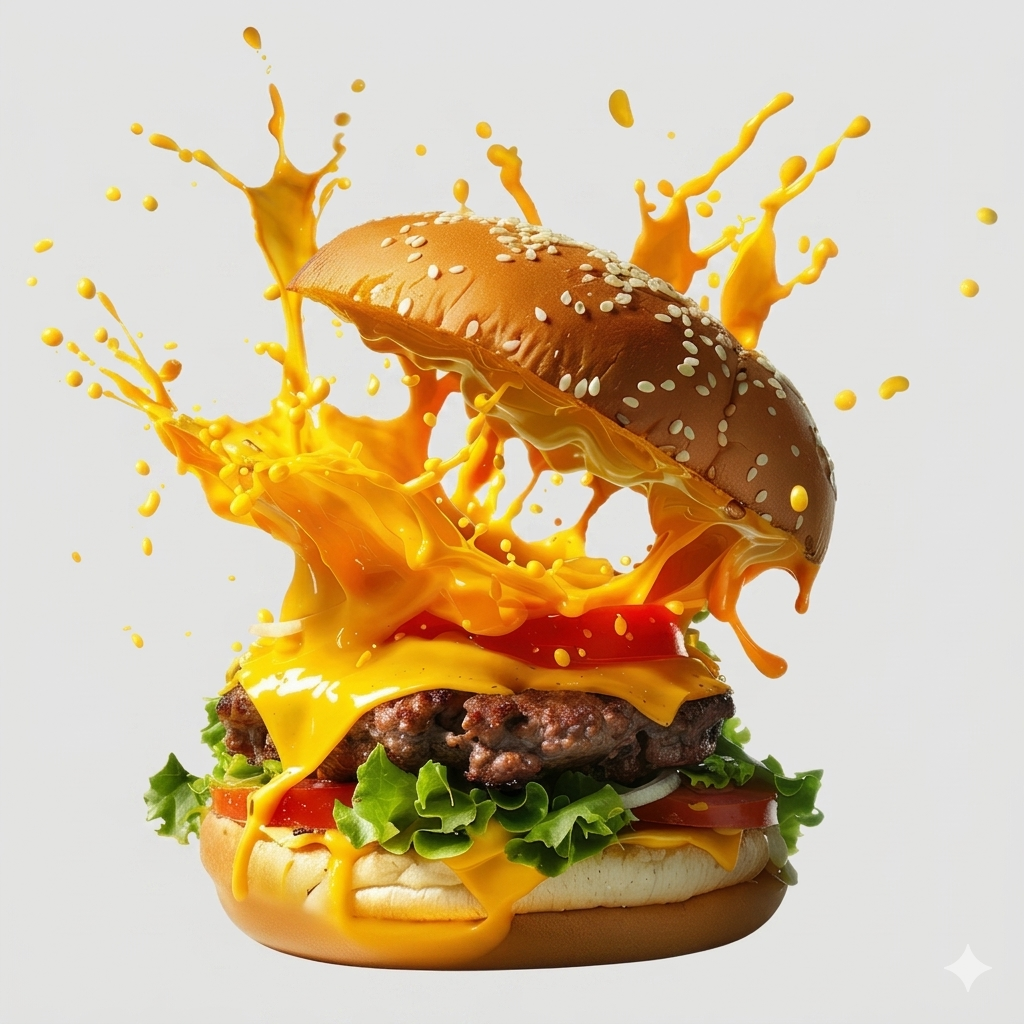
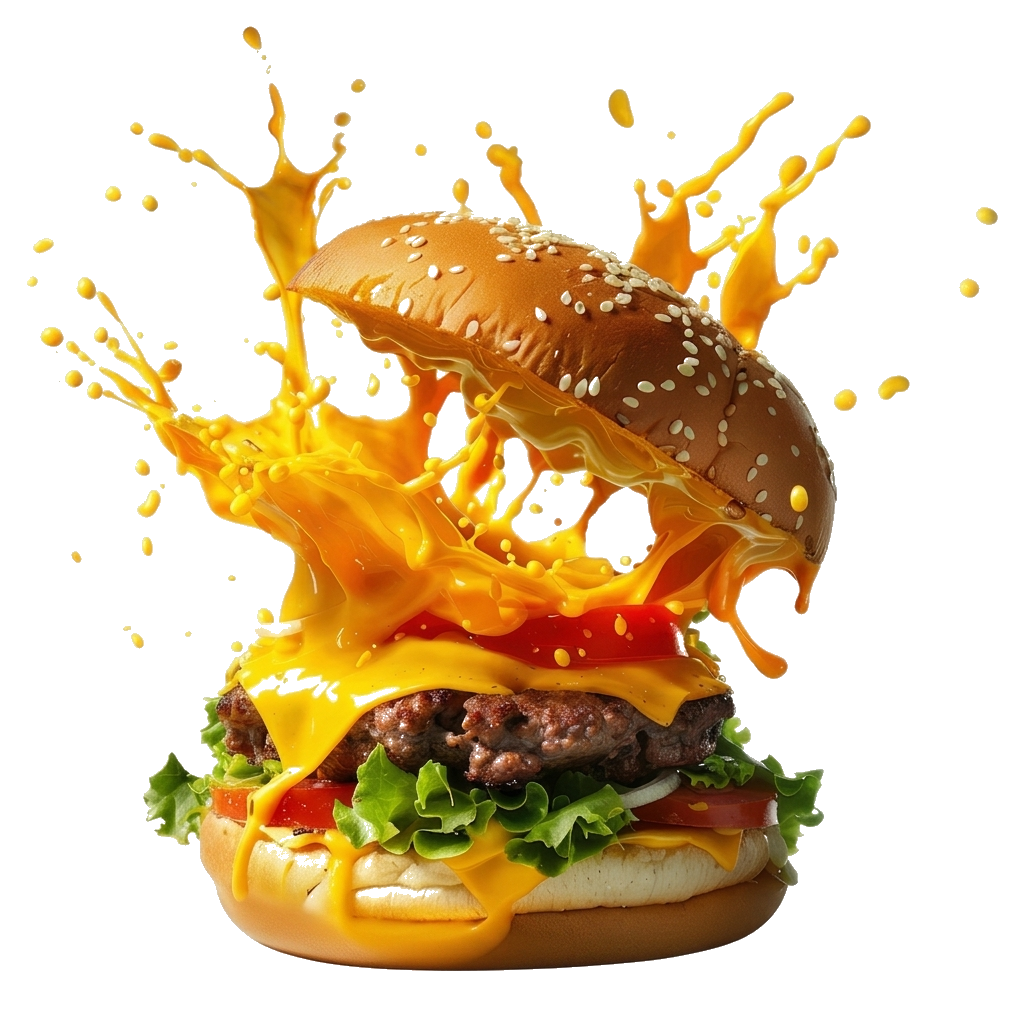
burger animate

diff --git a/lib/features/home/widgets/banner_widget.dart b/lib/features/home/widgets/banner_widget.dart
@@ -1,12 +1,39 @@
-import 'dart:math' as math;
 import 'package:flutter/material.dart';
 import '../../../core/constants/app_colors.dart';
 import '../../../core/widgets/brand_motion.dart';
 
 /// Restaurant banner widget shown at the top of the Home screen.
-/// Displays a full-width background image with slow rotation animation.
-class BannerWidget extends StatelessWidget {
+/// Shows the burger image (with transparent background) gently floating.
+class BannerWidget extends StatefulWidget {
   const BannerWidget({super.key});
+
+  @override
+  State<BannerWidget> createState() => _BannerWidgetState();
+}
+
+class _BannerWidgetState extends State<BannerWidget>
+    with SingleTickerProviderStateMixin {
+  late AnimationController _controller;
+  late Animation<double> _floatAnimation;
+
+  @override
+  void initState() {
+    super.initState();
+    _controller = AnimationController(
+      vsync: this,
+      duration: const Duration(seconds: 3),
+    );
+    _floatAnimation = Tween<double>(begin: 0, end: -10).animate(
+      CurvedAnimation(parent: _controller, curve: Curves.easeInOut),
+    );
+    _controller.repeat(reverse: true);
+  }
+
+  @override
+  void dispose() {
+    _controller.dispose();
+    super.dispose();
+  }
 
   @override
   Widget build(BuildContext context) {
@@ -15,8 +42,17 @@ class BannerWidget extends StatelessWidget {
       child: Container(
         width: double.infinity,
         margin: const EdgeInsets.symmetric(horizontal: 16, vertical: 12),
+        height: 240,
         decoration: BoxDecoration(
           borderRadius: const BorderRadius.all(Radius.circular(24)),
+          gradient: LinearGradient(
+            colors: [
+              AppColors.accentGold.withValues(alpha: 0.12),
+              AppColors.primaryRed.withValues(alpha: 0.06),
+            ],
+            begin: Alignment.topLeft,
+            end: Alignment.bottomRight,
+          ),
           boxShadow: [
             BoxShadow(
               color: AppColors.darkCharcoal.withValues(alpha: 0.12),
@@ -27,23 +63,25 @@ class BannerWidget extends StatelessWidget {
         ),
         child: ClipRRect(
           borderRadius: BorderRadius.circular(24),
-          child: SizedBox(
-            width: double.infinity,
-            height: 260,
-            child: TweenAnimationBuilder<double>(
-              tween: Tween(begin: 0, end: 2 * math.pi),
-              duration: const Duration(seconds: 20),
-              builder: (context, value, child) {
-                return Transform.rotate(
-                  angle: value,
-                  child: Image.asset(
-                    'lib/assets/images/burgers/background.png',
-                    fit: BoxFit.cover,
-                    errorBuilder: (_, __, ___) => const SizedBox.shrink(),
-                  ),
+          child: Center(
+            child: AnimatedBuilder(
+              animation: _floatAnimation,
+              builder: (context, child) {
+                return Transform.translate(
+                  offset: Offset(0, _floatAnimation.value),
+                  child: child,
                 );
               },
-              onEnd: () {},
+              child: Image.asset(
+                'lib/assets/images/burgers/background.png',
+                height: 180,
+                fit: BoxFit.contain,
+                errorBuilder: (_, __, ___) => Icon(
+                  Icons.lunch_dining_rounded,
+                  size: 100,
+                  color: AppColors.primaryRed.withValues(alpha: 0.4),
+                ),
+              ),
             ),
           ),
         ),